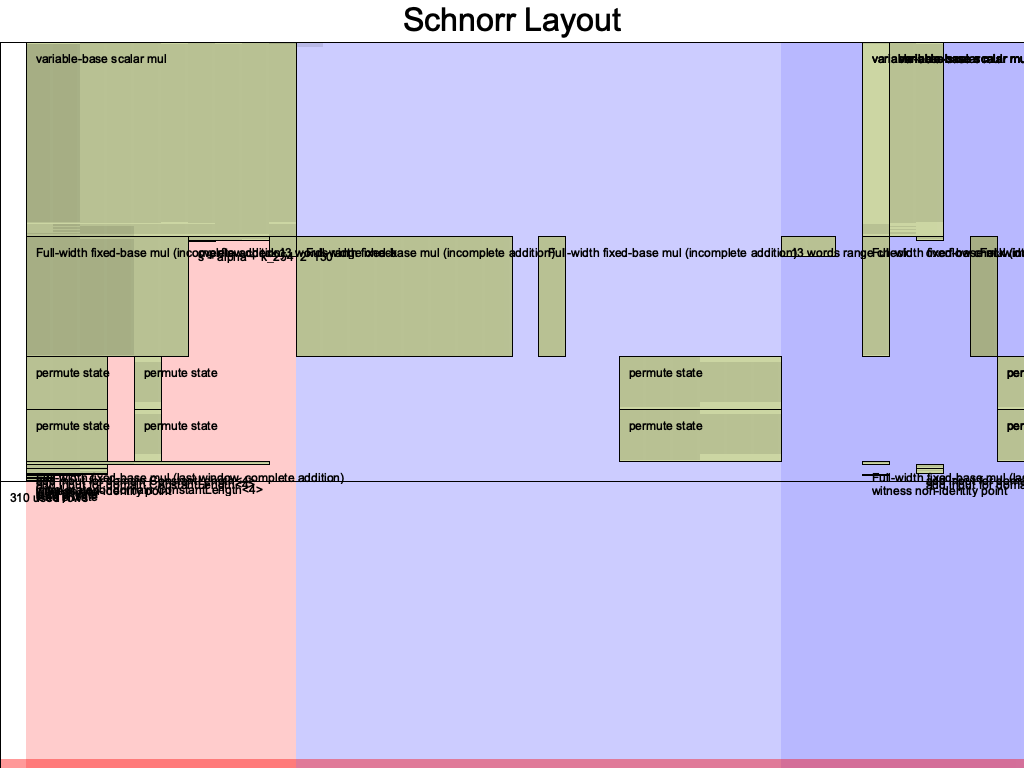
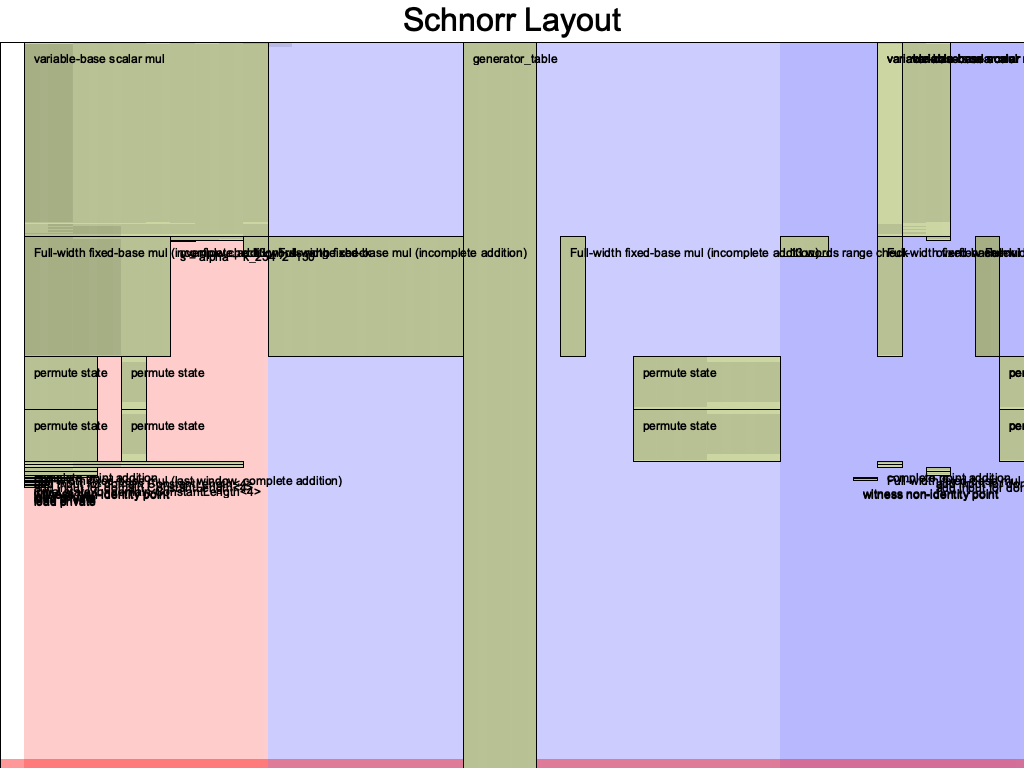
Use R point

diff --git a/taiga_halo2/src/circuit/schnorr.rs b/taiga_halo2/src/circuit/schnorr.rs
@@ -76,7 +76,7 @@ pub struct SchnorrCircuit {
     // public key
     pk: pallas::Point,
     // signature (r,s)
-    r: pallas::Base,
+    r: pallas::Point,
     s: pallas::Scalar,
 }
 
@@ -85,12 +85,33 @@ impl plonk::Circuit<pallas::Base> for SchnorrCircuit {
     type FloorPlanner = floor_planner::V1;
 
     fn without_witnesses(&self) -> Self {
+        const K: u32 = 13;
+        let G = pallas::Point::generator();
+        // Message hash: m
+        let m = pallas::Base::one();
+        // Private key: sk            
+        let sk = pallas::Scalar::from(7);
+        // Public key: P = sk*G
+        let pk = G * sk;
+        let (p, _, _) = pk.jacobian_coordinates();
+        // Generate a random number: z    
+        let z = pallas::Scalar::from(9);
+        // Calculate: R = z*G     
+        let R = G * z;
+        // where: r = X-coordinate of curve point R
+        //        and || denotes binary concatenation
+        let (r, _, _) = R.jacobian_coordinates();
+        // Calculate: s = z + Hash(r||P||m)*sk
+        // let h = mod_r_p(poseidon_hash_4(r, p, m));
+        let h = pallas::Scalar::one();
+        let s = z + h * sk;
         SchnorrCircuit {
-            m: pallas::Base::default(),
-            pk: pallas::Point::generator(),
-            r: pallas::Base::default(),
-            s: pallas::Scalar::default(),
+            m,
+            pk,
+            r: R,
+            s,
         }
+        // sG = R + hP
     }
 
     fn configure(meta: &mut plonk::ConstraintSystem<pallas::Base>) -> Self::Config {
@@ -217,15 +238,6 @@ impl plonk::Circuit<pallas::Base> for SchnorrCircuit {
         mut layouter: impl Layouter<pallas::Base>,
     ) -> Result<(), plonk::Error> {
 
-        // Private key :             k            (integer)
-        // Public key :              P = k*G      (curve point)
-        // Message hash:             m            (integer)
-        // Generate a random number: z            (integer)
-        // Calculate:                R = z*G      (curve point)
-        // Calculate: s = z + Hash(r||P||m)*k     (integer)
-        // where: r = X-coordinate of curve point R
-        //        and || denotes binary concatenation
-        // Signature = (r, s)     (integer, integer)
         SinsemillaChip::<
                 NoteCommitmentHashDomain,
                 NoteCommitmentDomain,
@@ -233,11 +245,6 @@ impl plonk::Circuit<pallas::Base> for SchnorrCircuit {
             >::load(config.sinsemilla_config, &mut layouter)?;
         // We implement the verification algorithm first
         // and assume that the signature is given
-        // Obtain the signature: (r,s)
-        // Obtain public key : P
-        // Obtain message: m
-        // Calculate the random point R from r
-        // Verify: s*G = R + Hash(r||P||m)*P
         // Construct an ECC chip
         let ecc_chip = EccChip::construct(config.ecc_config);
         let zero_cell = assign_free_advice(
@@ -246,16 +253,28 @@ impl plonk::Circuit<pallas::Base> for SchnorrCircuit {
             Value::known(Fp::zero()),
         )?;
         // TODO: Message length (256bits) is bigger than the size of Fp (255bits)
+        // Obtain message: m
         let m_cell = assign_free_advice(
             layouter.namespace(|| "message"),
             config.advices[0],
             Value::known(self.m),
         )?;
-        let r_cell = assign_free_advice(
-            layouter.namespace(|| "r"),
-            config.advices[0],
-            Value::known(self.r),
+        // Obtain the signature: (r,s)
+        let r_cell = {
+            let (r, _, _) = self.r.jacobian_coordinates();
+            assign_free_advice(
+                layouter.namespace(|| "r"),
+                config.advices[0],
+                Value::known(r),
+            )?
+        };
+
+        let s_scalar = ScalarFixed::new(
+            ecc_chip.clone(),
+            layouter.namespace(|| "s"),
+            Value::known(self.s),
         )?;
+        // Obtain public key : P
         let p_cell = {
             let (p, _, _) = self.pk.jacobian_coordinates();
             assign_free_advice(
@@ -265,15 +284,12 @@ impl plonk::Circuit<pallas::Base> for SchnorrCircuit {
             )?
         };
 
-        let s_scalar = ScalarFixed::new(
-            ecc_chip.clone(),
-            layouter.namespace(|| "s"),
-            Value::known(self.s),
-        )?;
-
+        // Verify: s*G = R + Hash(r||P||m)*P
+        // s*G
         let generator = FixedPoint::from_inner(ecc_chip.clone(), NoteCommitmentFixedBasesFull);
         let (sG, _) = generator.mul(layouter.namespace(|| "s_scalar * generator"), &s_scalar)?;
 
+        // Hash(r||P||m)
         let h_scalar = {
             let poseidon_chip = PoseidonChip::construct(config.poseidon_config.clone());
             let poseidon_message = [r_cell, p_cell, m_cell, zero_cell];
@@ -287,20 +303,40 @@ impl plonk::Circuit<pallas::Base> for SchnorrCircuit {
                 poseidon_message,
             )?;
 
+            let tmp = assign_free_advice(
+                layouter.namespace(|| "tmp"),
+                config.advices[0],
+                Value::known(pallas::Base::one()),
+            )?;
+
             ScalarVar::from_base(
                 ecc_chip.clone(),
                 layouter.namespace(|| "ScalarVar from_base"),
-                &h,
+                &tmp,
+                // &h,
             )?
         };
-        let P = NonIdentityPoint::new(
+
+        let R = NonIdentityPoint::new(
             ecc_chip.clone(),
-            layouter.namespace(|| "non-identity P"),
-            Value::known(self.pk.to_affine()),
+            layouter.namespace(|| "non-identity R"),
+            Value::known(self.r.to_affine()),
         )?;
+        // Hash(r||P||m)*P
+        let (hP, _) = {
+            let P = NonIdentityPoint::new(
+                ecc_chip.clone(),
+                layouter.namespace(|| "non-identity P"),
+                Value::known(self.pk.to_affine()),
+            )?;
+            P
+            .mul(layouter.namespace(|| "hP"), h_scalar)?
+        };
 
-        let (hP, _) = P.mul(layouter.namespace(|| "hP"), h_scalar)?;
+        // R + Hash(r||P||m)*P
+        let rhs = R.add(layouter.namespace(|| "R + Hash(r||P||m)*P"), &hP);
 
+        println!("COMING");
         sG.constrain_equal(layouter.namespace(|| "s*G = R + Hash(r||P||m)*P"), &hP)?;
         Ok(())
     }
@@ -361,10 +397,11 @@ mod tests {
         //        and || denotes binary concatenation
         let (r, _, _) = R.jacobian_coordinates();
         // Calculate: s = z + Hash(r||P||m)*sk
-        let h = mod_r_p(poseidon_hash_4(r, p, m));
+        // let h = mod_r_p(poseidon_hash_4(r, p, m));
+        let h = pallas::Scalar::one();
         let s = z + h * sk;
         // Signature = (r, s)
-        let circuit = SchnorrCircuit { m, pk, r, s };
+        let circuit = SchnorrCircuit { m, pk, r: R, s };
 
         // ------- PLOTTING SECTION --------
         use plotters::prelude::*;
